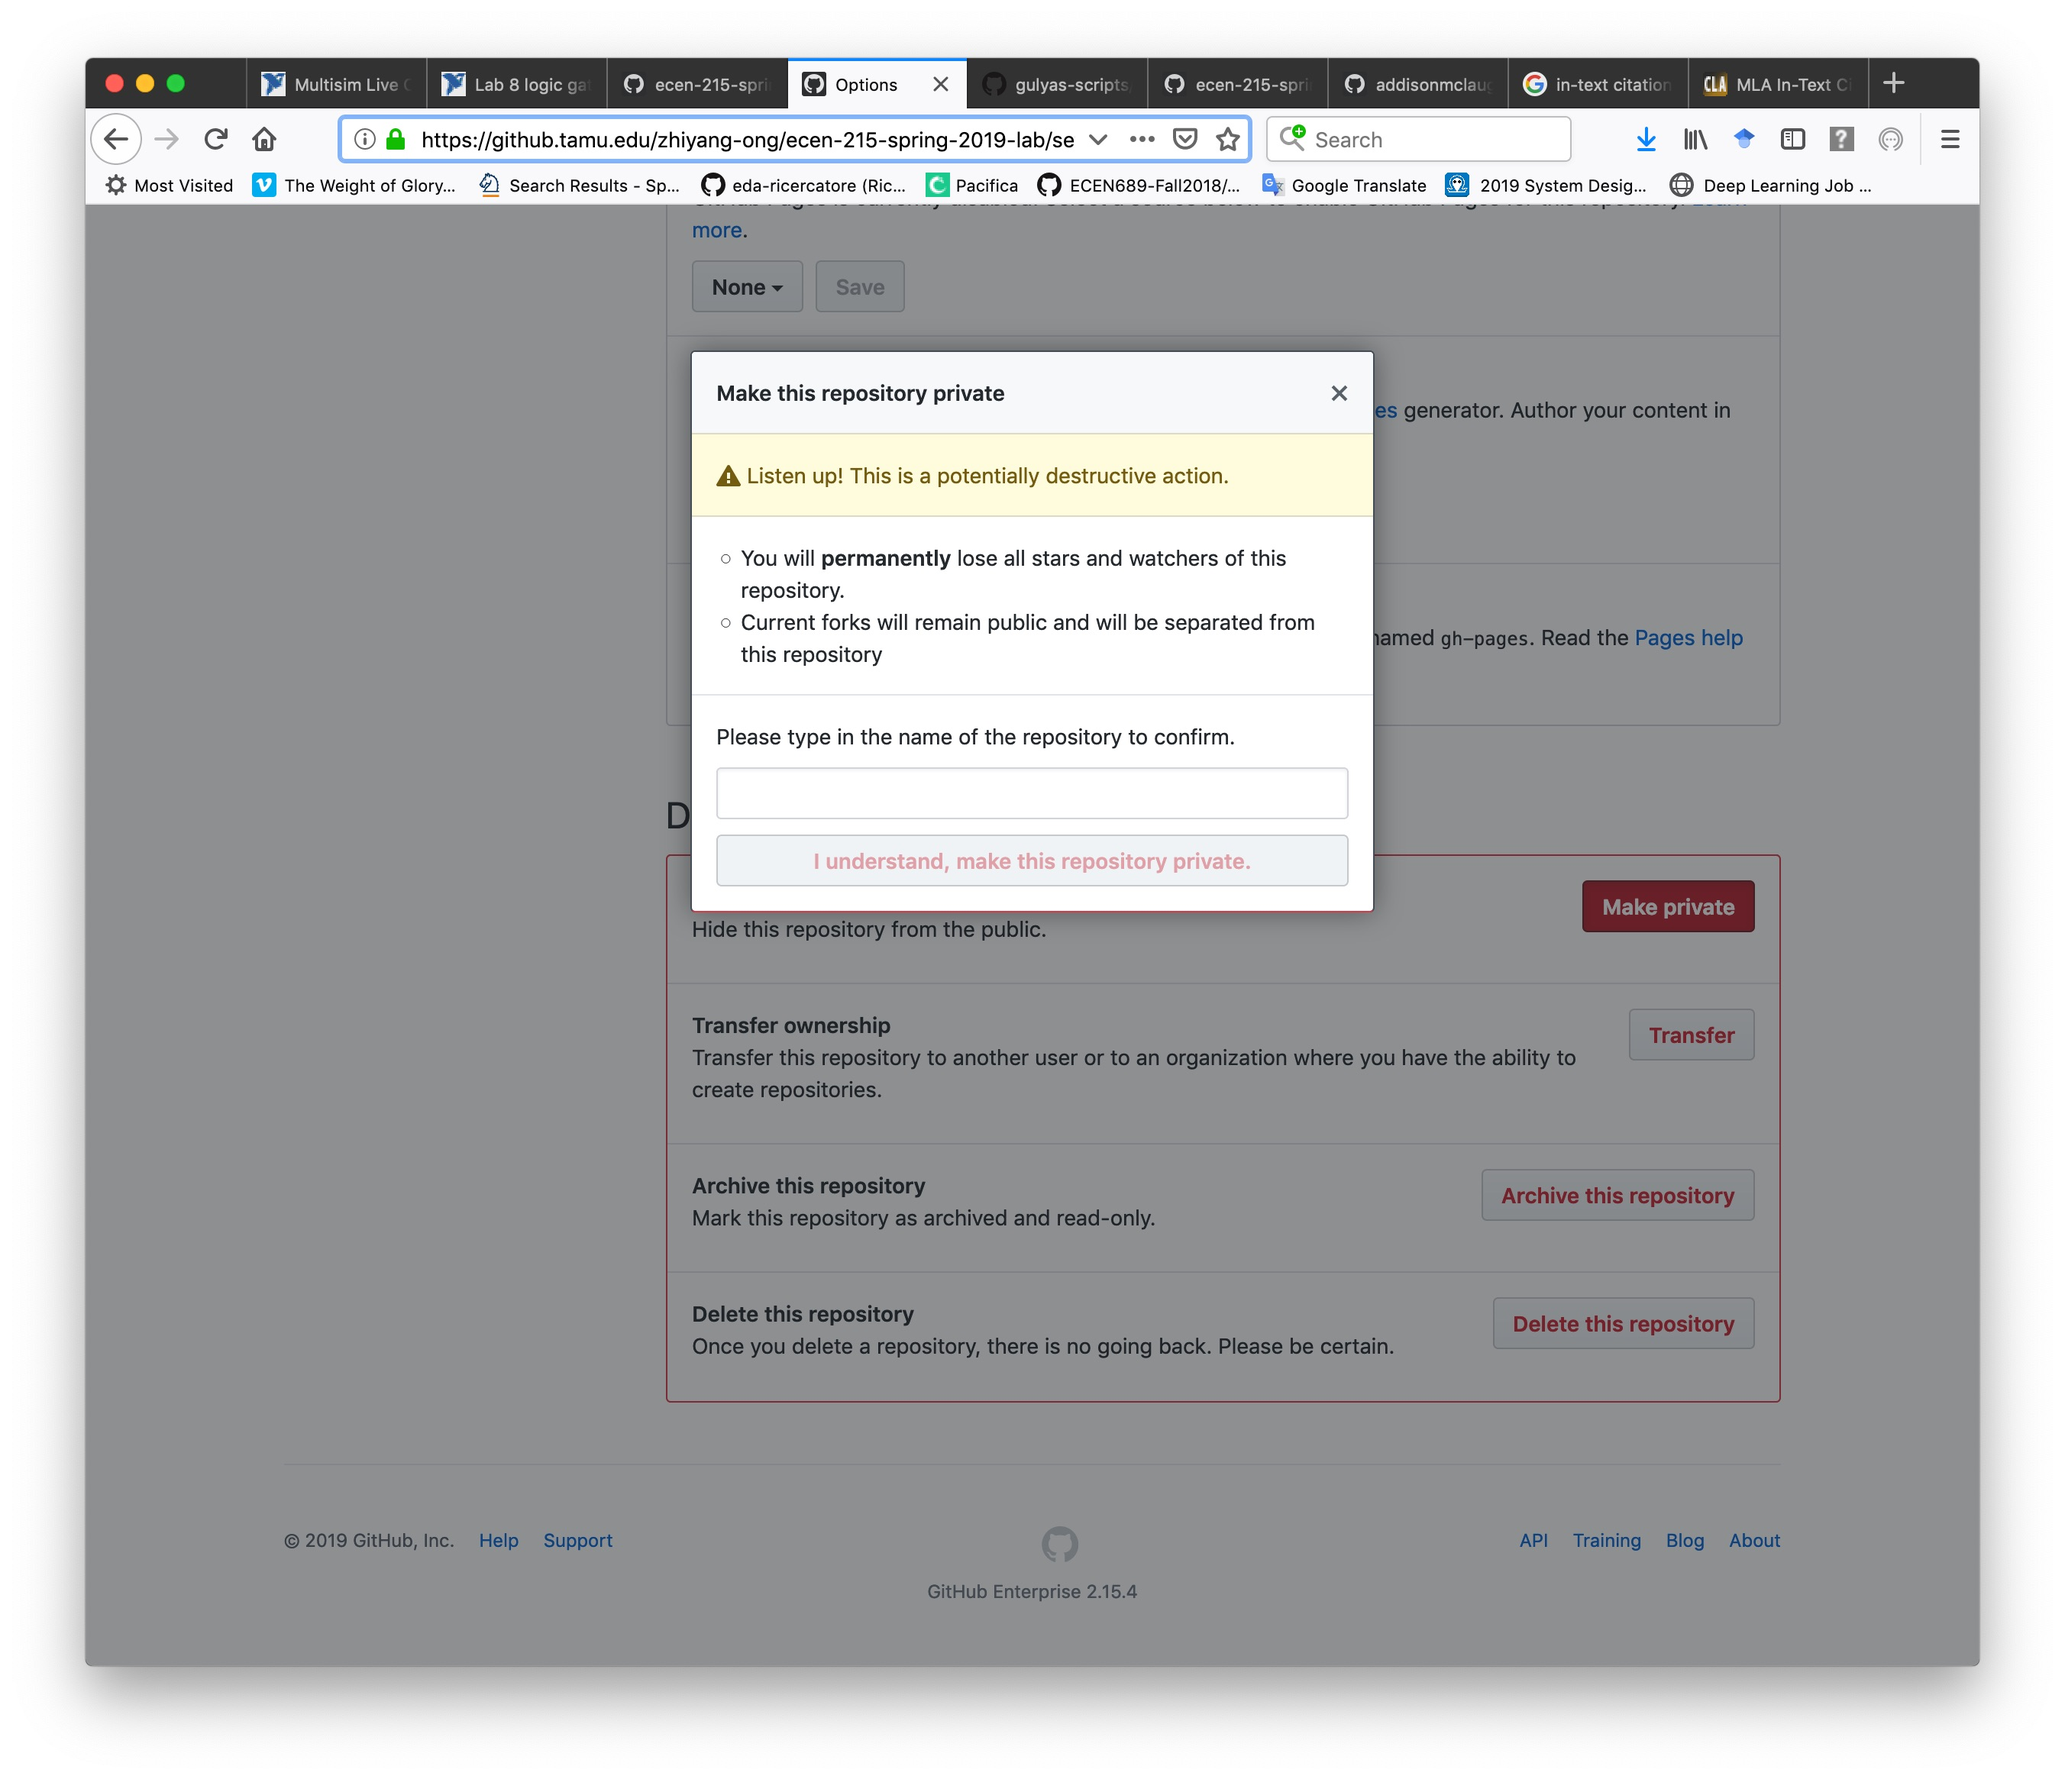
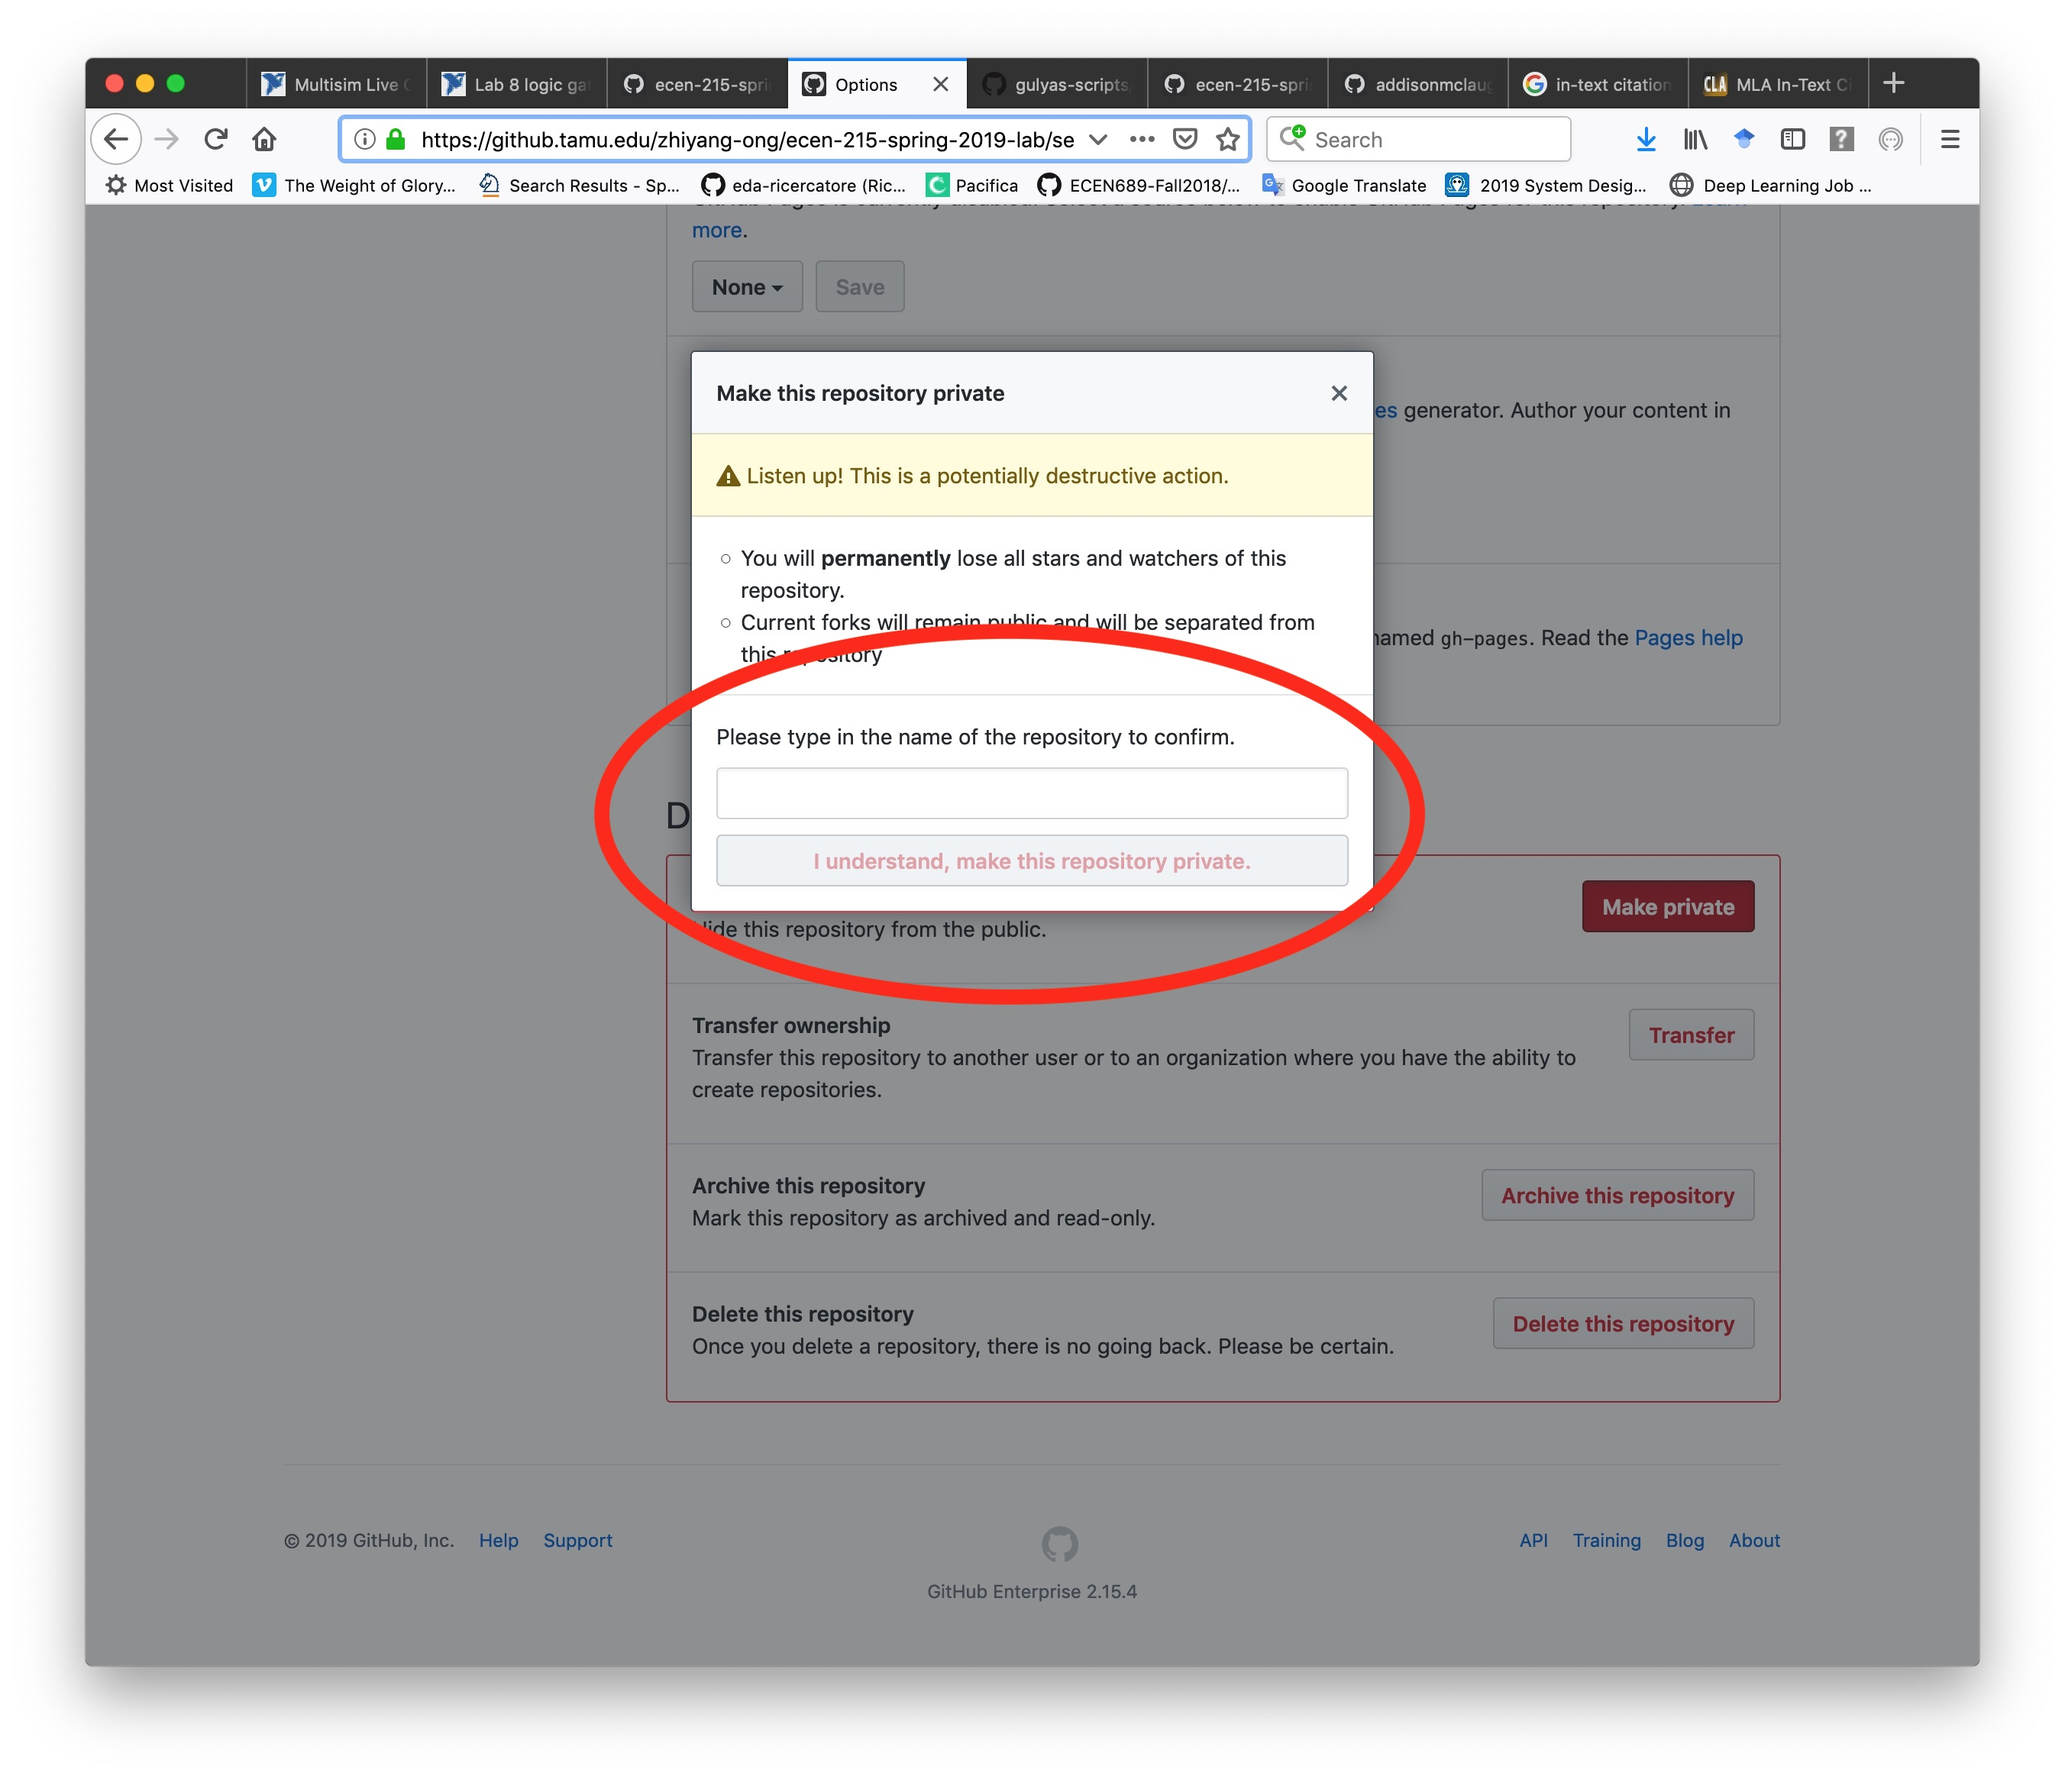
Update GitHub tutorial on how to make GitHub repository private.

diff --git a/notes/tutorials/git-tutorial.md b/notes/tutorials/git-tutorial.md
@@ -268,11 +268,11 @@ Scroll to the bottom of the "Settings" page of the *GitHub* repository.
 
 ![Scroll to the bottom of the "Settings" page of the *GitHub* repository.](https://github.com/eda-ricercatore/gulyas-scripts/blob/master/notes/tutorials/git-tutorial-pics/make-repo-private/make-repo-private.jpg)
 
-Click on the grey/gray "Make private" button in the "Danger Zone".
+Click on the grey/gray "Make private" button (circled in red) in the "Danger Zone".
 
 The tab/window would be darkened, and a pseudo-"pop-up window" would ask you to type in the name of the *GitHub* repository that you are trying to make private.
 
-Type in the name of the *GitHub* repository, and click on the "I understand, make this repository private." button.
+Type in the name of the *GitHub* repository, and click on the "I understand, make this repository private." button (circled in red).
 
 ![First Warning, Darkened Pop-up Window](https://github.com/eda-ricercatore/gulyas-scripts/blob/master/notes/tutorials/git-tutorial-pics/make-repo-private/make-repo-private-warning.jpg)
 
@@ -283,15 +283,15 @@ You will be redirected to a page to authenticate your identity. This acts as a s
 ![NetID authentication](https://github.com/eda-ricercatore/gulyas-scripts/blob/master/notes/tutorials/git-tutorial-pics/make-repo-private/make-repo-private-authentication.jpg)
 
 
-You will return to the "Settings" page of the *GitHub* repository, with the "Private" flag beside the name of the repository (near the top left corner of the window/tab).
+You will return to the "Settings" page of the *GitHub* repository, with the "Private" flag (circled in red) beside the name of the repository (near the top left corner of the window/tab).
 
 ![Private repo 1](https://github.com/eda-ricercatore/gulyas-scripts/blob/master/notes/tutorials/git-tutorial-pics/make-repo-private/private-repo-1.jpg)
 
-When you scroll to the bottom of the page, you will notice a "Make public" button in the "Danger Zone". This is because the *GitHub* repository is currently private, and cannot be made "private private". However, it has the "Make public" button in the "Danger Zone" to allow the administrator/collaborator of the *GitHub* repository make set the *GitHub* repository to public, so that everyone can see it again.
+When you scroll to the bottom of the page, you will notice a "Make public" button (circled in red) in the "Danger Zone". This is because the *GitHub* repository is currently private, and cannot be made "private private". However, it has the "Make public" button in the "Danger Zone" to allow the administrator/collaborator of the *GitHub* repository make set the *GitHub* repository to public, so that everyone can see it again.
 
 ![Private repo 2](https://github.com/eda-ricercatore/gulyas-scripts/blob/master/notes/tutorials/git-tutorial-pics/make-repo-private/private-repo-2.jpg)
 
-Similarly, when you return to the main page of the *GitHub* repository, you will notice the "Private" flag beside the name of the repository (near the top left corner of the window/tab).
+Similarly, when you return to the main page of the *GitHub* repository, you will notice the "Private" flag (circled in red) beside the name of the repository (near the top left corner of the window/tab).
 
 ![Private repo indicator](https://github.com/eda-ricercatore/gulyas-scripts/blob/master/notes/tutorials/git-tutorial-pics/make-repo-private/private-repo-indicator.jpg)
 
